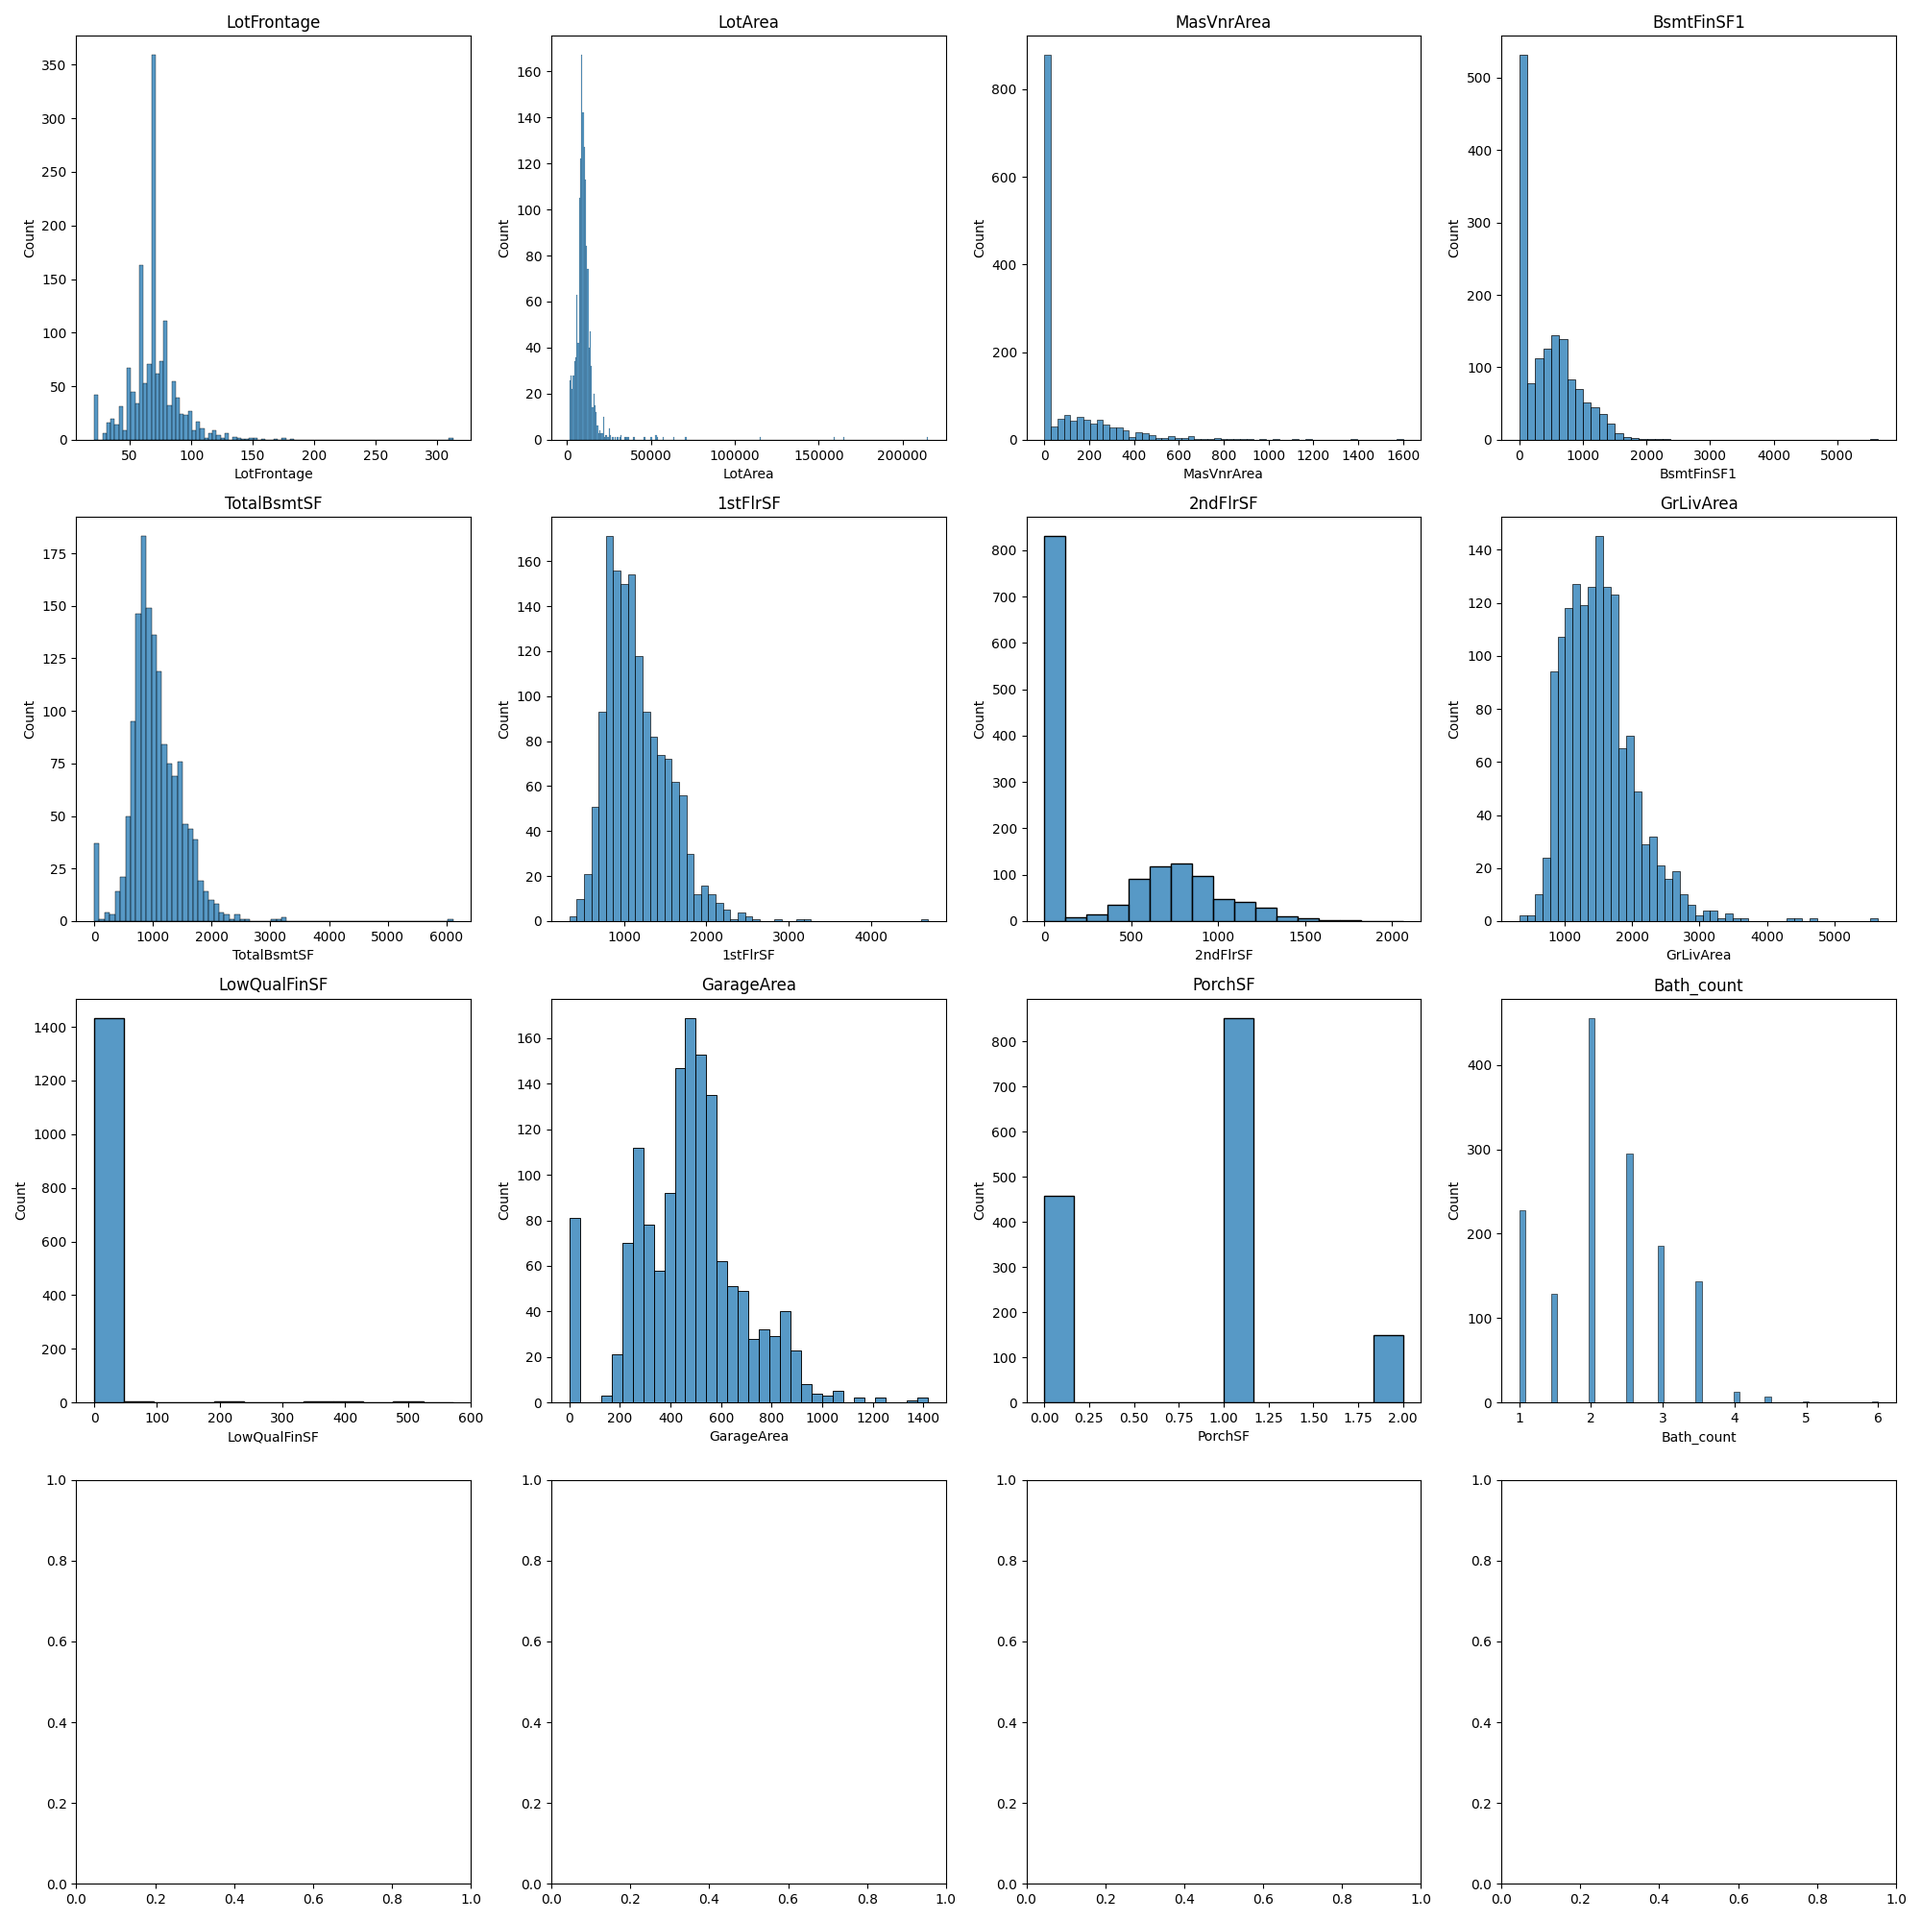
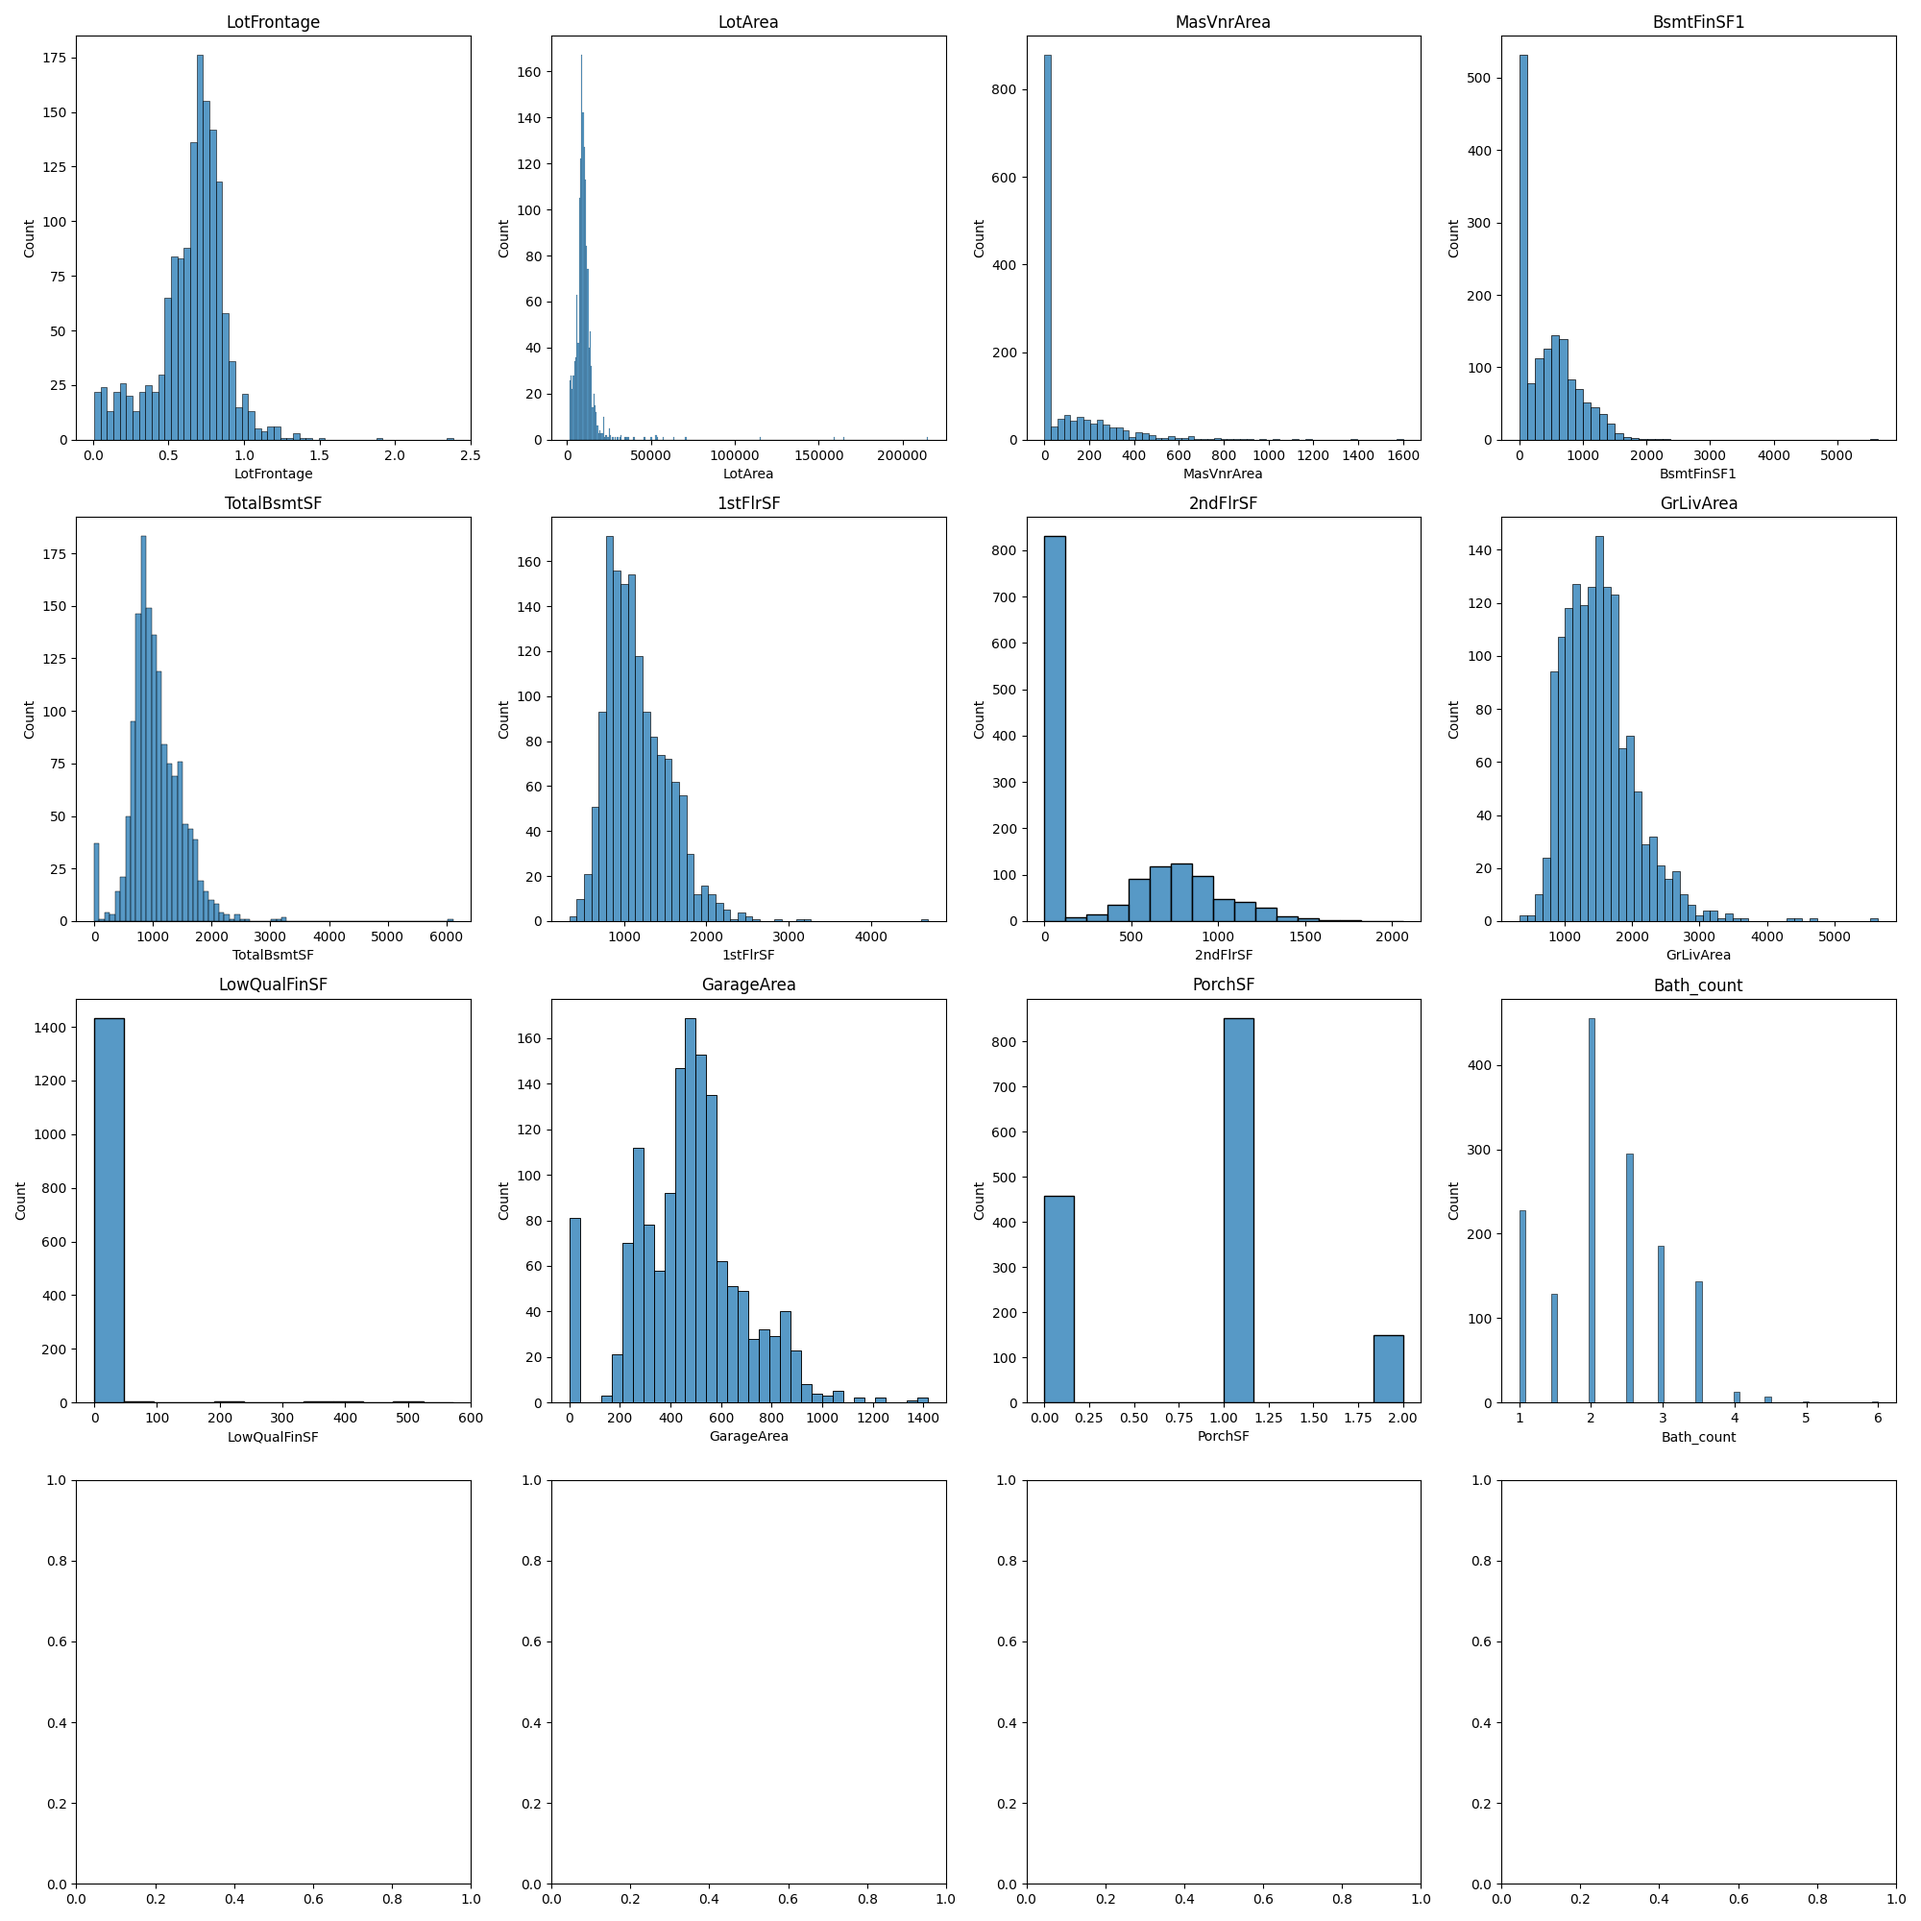
Features

Changed region(s): [[0.031, 0.031, 0.155, 0.248]]

diff --git a/train.py b/train.py
@@ -48,7 +48,7 @@ print(train.groupby('Neighborhood', as_index=False)['YearBuilt'].mean())
 data = [train,test]
 numeric_list = ['Alley','Street','PoolQC','MiscFeature','Pool','2ndFlr']
 encode_list = ['GarageQual','GarageCond','GarageFinish','GarageType','Heating','HeatingQC','CentralAir','ExterCond','ExterQual','MSZoning','BsmtQual','BsmtCond','BsmtExposure','BsmtFinType1','BsmtFinType2','Foundation','PavedDrive','Functional','Electrical','SaleType','SaleCondition','Fence','FireplaceQu','KitchenQual','LotConfig','LandSlope','Neighborhood','LandContour','LotShape','Condition1','Condition2','BldgType','HouseStyle','RoofStyle','RoofMatl','Exterior1st','Exterior2nd','MasVnrType']
-drop_list_columns = ['Utilities','PoolArea','FireplaceQu','MasVnrType','TotRmsAbvGrd','Condition2','LandContour','Id','MiscVal','YrSold','LowQualFinSF','BsmtFinType1','BsmtFinType2','PoolQC','Street','MoSold','LandSlope','Exterior2nd','Foundation','SaleType','LotConfig','2ndBsmtFlr','1stFlrSF','2ndFlrSF']
+drop_list_columns = ['Utilities','PoolArea','MasVnrType','TotRmsAbvGrd','Condition2','LandContour','Id','MiscVal','YrSold','LowQualFinSF','BsmtFinType1','BsmtFinType2','Street','MoSold','LandSlope','Exterior2nd','Foundation','SaleType','LotConfig','2ndBsmtFlr','1stFlrSF','2ndFlrSF','BsmtFinSF1','OverallQual']
 quantile_list = ['SalePrice','LotArea','LotFrontage','YearBuilt','GrLivArea','TotalBsmtSF','GrLivArea','MasVnrArea','BsmtUnfSF','BsmtFinSF1','BsmtFinSF2','1stFlrSF','2ndFlrSF','GarageArea','WoodDeckSF','PorchSF','QualitySum','OverallQual']
 garage_list = ['GarageType','GarageYrBlt','GarageFinish','GarageQual','GarageCond','GarageArea']
 quality_sum_list =['ExterQual','ExterCond','BsmtQual','BsmtCond','HeatingQC','KitchenQual','FireplaceQu','GarageQual','GarageCond','PoolQC']
@@ -110,6 +110,8 @@ for i in data:
 			i.at[k, 'GarageCars'] = i.loc[i['GarageCars'] > 0, 'GarageCars'].value_counts().idxmax()
 		if pd.isna(i.at[k, 'TotalBsmtSF']):
 			i.at[k, 'TotalBsmtSF'] = i.at[k, '1stFlrSF']
+		if pd.isna(i.at[k, 'LotFrontage']):  
+			i.at[k, 'LotFrontage'] = math.sqrt(i.at[k,"LotArea"]) * i.at["LotFrontage"].mean() / math.sqrt(i.at["LotArea"].mean())
 		for h in bath_list:
 			if pd.isna(i.at[k, h]):
 				if i.at[k, 'TotalBsmtSF'] > 0 and h == 'BsmtFullBath':
@@ -137,6 +139,10 @@ for i in data:
 		else:
 			i.at[k, '2ndBsmtFlr'] = 0
 		i.at[k, 'QualitySum'] = 0
+		if i.at[k, 'YearRemodAdd'] == i.at[k, 'YearBuilt']:
+			i.at[k, 'YearRemodAdd'] = 0
+		else: 
+			i.at[k, 'YearRemodAdd'] = i.at[k, 'YearBuilt'].max() - i.at[k, 'YearRemodAdd']
 		for l in quality_sum_list:
 			if i.at[k, l] == 'Ex':
 				i.at[k, 'QualitySum'] += 5
@@ -147,10 +153,12 @@ for i in data:
 			elif i.at[k, l] == 'Fa':
 				i.at[k, 'QualitySum'] += 2
 			elif i.at[k, l] == 'Po':
-				i.at[k, 'QualitySum'] += 1				
-		##i.at[k, 'BuildSF'] = i.at[k, '1stFlrSFSF'] + i.at[k, '2ndFlrSF']
+				i.at[k, 'QualitySum'] += 1
+		if i.at[k, 'TotalBsmtSF'] > 0:
+			i.at[k, 'BsmtUnfSF'] =  i.at[k, 'BsmtUnfSF']/i.at[k, 'TotalBsmtSF']		
 		i.at[k, 'PorchSF'] = i.at[k, 'OpenPorchSF'] + i.at[k, 'EnclosedPorch'] + i.at[k, '3SsnPorch'] + i.at[k, 'ScreenPorch']
 		i.at[k, 'Bath_count'] = i.at[k, 'BsmtFullBath'] + i.at[k, 'FullBath'] + 0.5*i.at[k, 'BsmtHalfBath'] + 0.5*i.at[k, 'HalfBath']
+		i.at[k, 'LotFrontage'] = i.at[k, 'LotFrontage'] / math.sqrt(i.at[k,"LotArea"])
 		# if pd.isna(i.at[k, 'MSZoning']):
 		# 	print(i.loc[k,'YearBuilt'])
 		# 	##print(i.loc[i['YearBuilt'], 'MSZoning'].most_frequent())
@@ -215,14 +223,17 @@ for i in data:
 for i in data:
 	for col in drop_list_columns:
 		i.drop(col, axis=1, inplace=True)
-
-for i in data:
 	for col in bath_list:
 		i.drop(col, axis=1, inplace=True)
-
-for i in data:
 	for col in garage_list:
 		i.drop(col, axis=1, inplace=True)
+	for col in porch_list:
+		i.drop(col, axis=1, inplace=True)
+	for col in quality_sum_list:
+		if (col == 'GarageQual' or col == 'GarageCond'):
+			pass
+		else:
+			i.drop(col, axis=1, inplace=True)
 
 ###remove columns with low correlation to price
 for col in train.columns:
